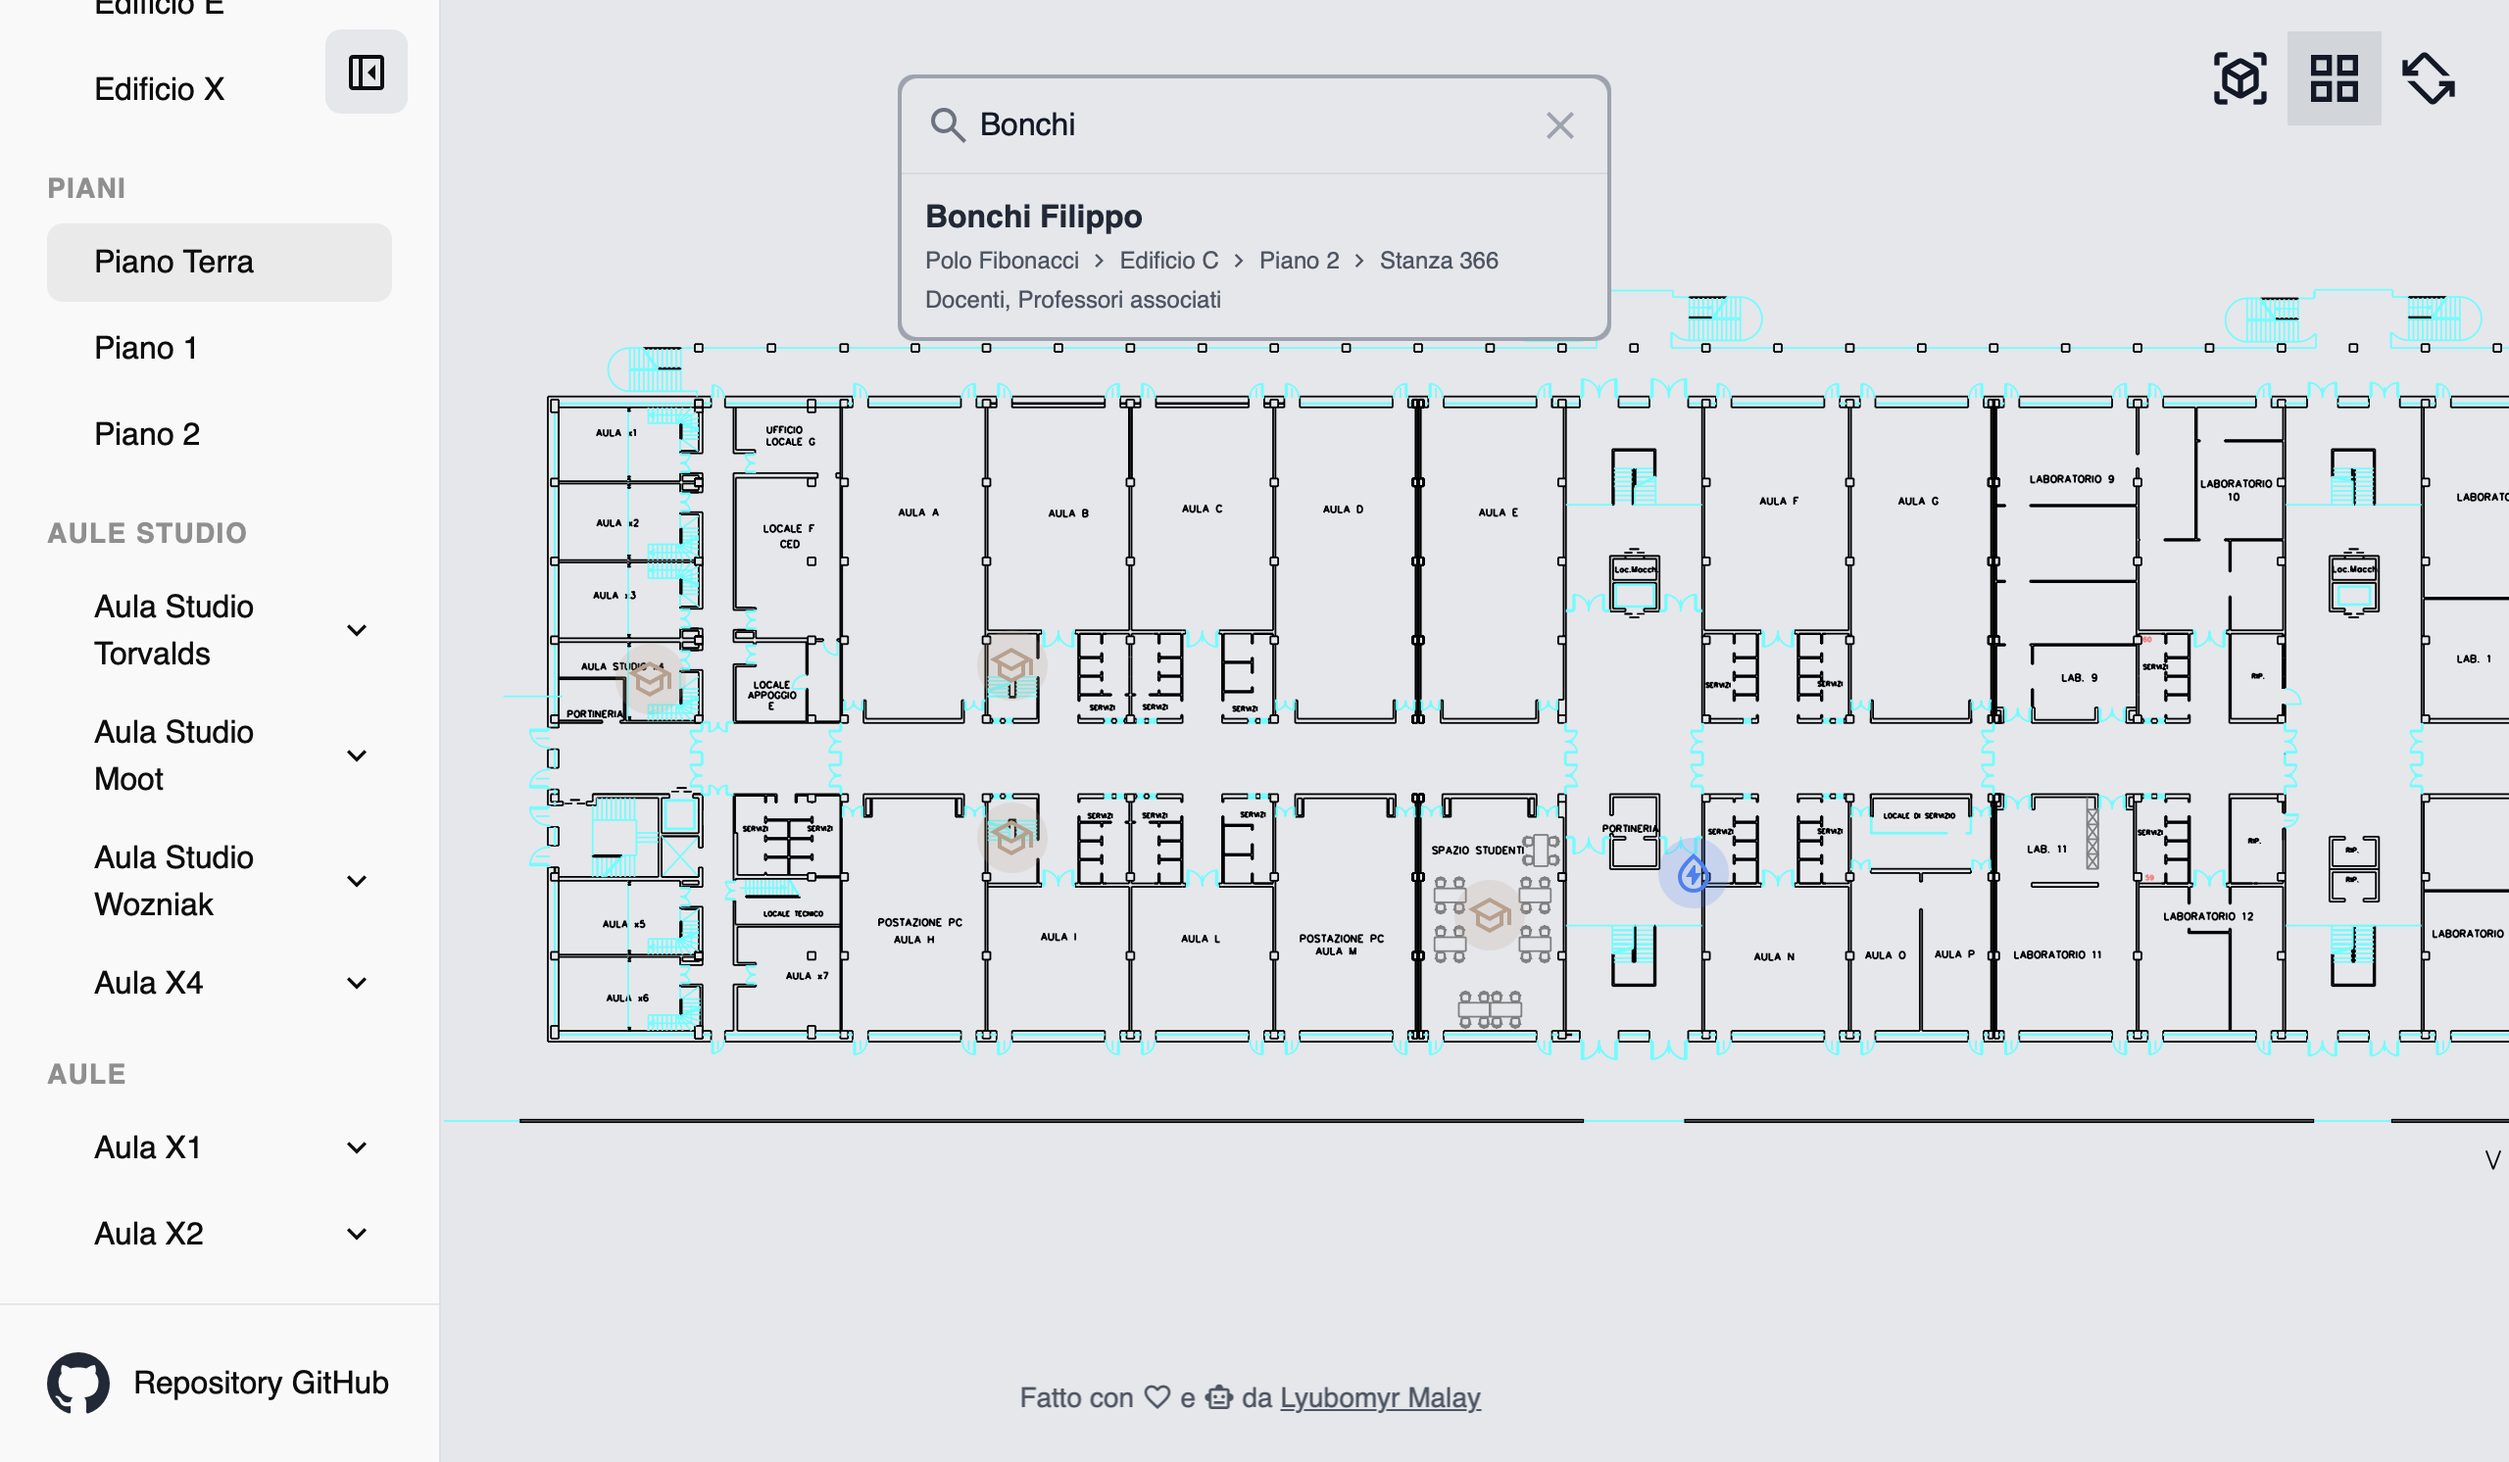
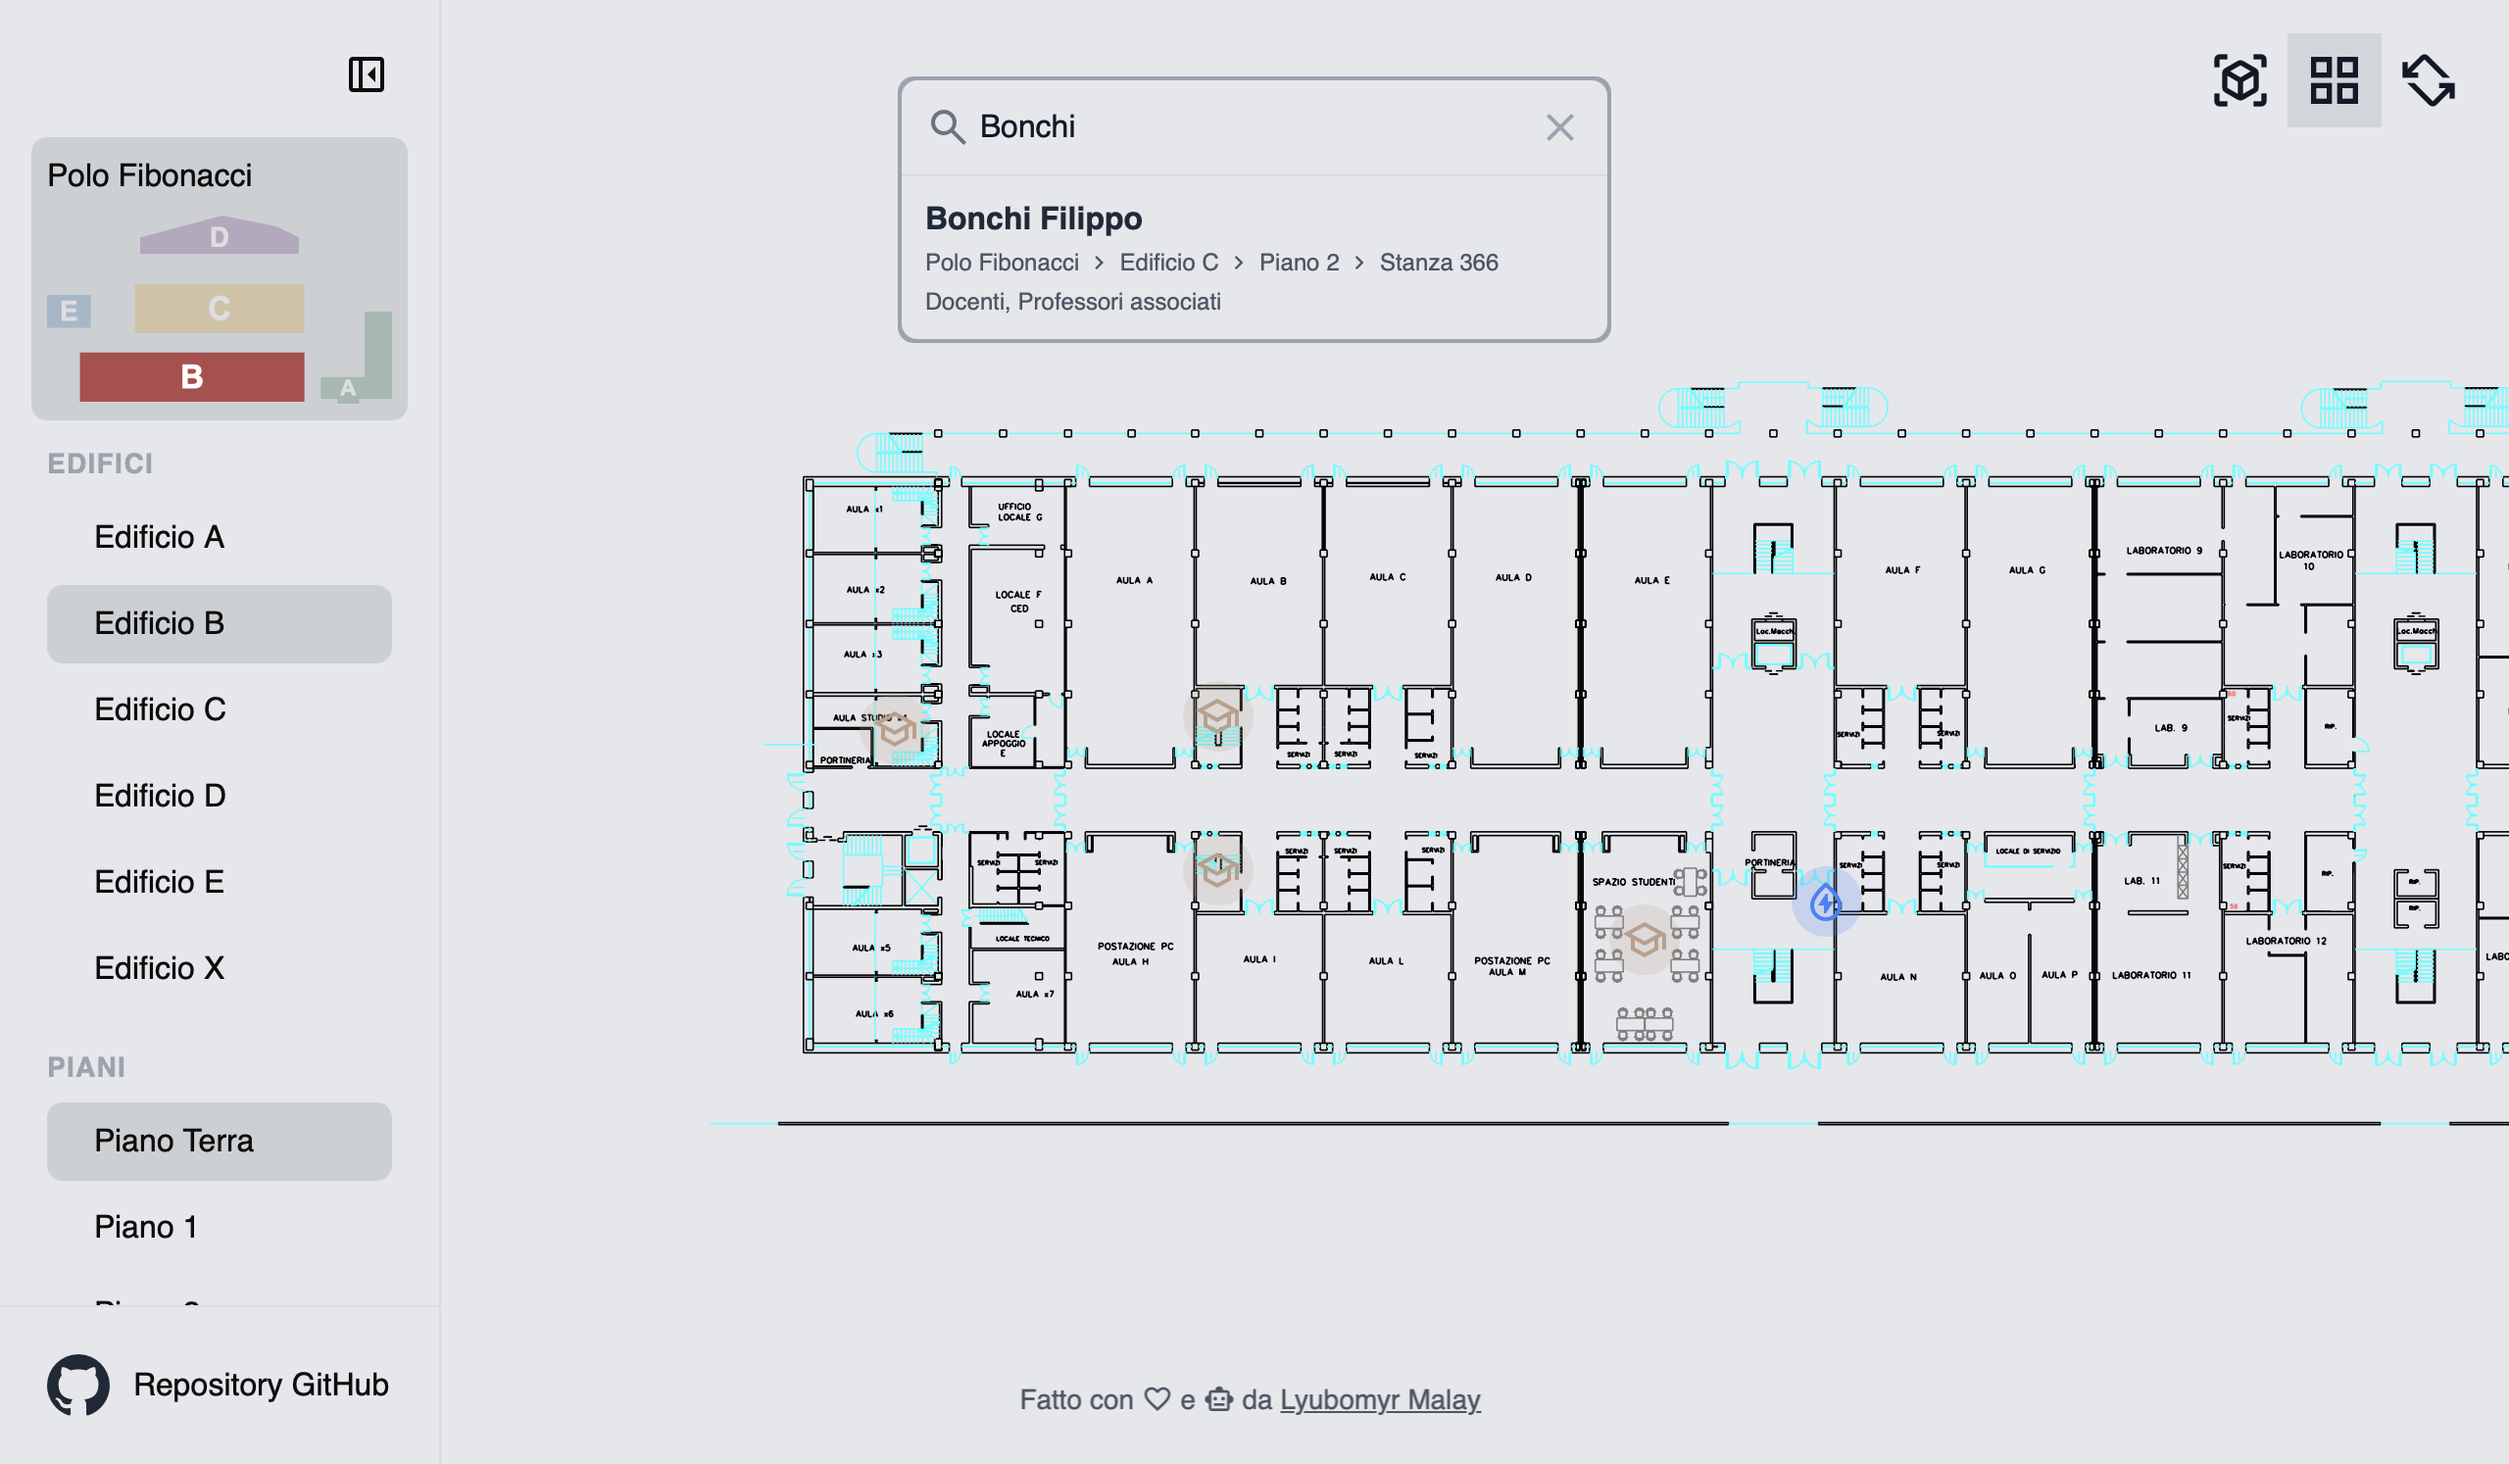
❄

diff --git a/index.html b/index.html
@@ -935,7 +935,7 @@ RMMMMRMMMMME        EMMMMMMMMMMMMM!
             width: 290px;
             min-width: 290px;
             max-width: 290px;
-            background-color: #f9f9f9;
+            background-color: var(--bg-main);
             border-right: 1px solid var(--border-divider);
             color: #0d0d0d;
         }
@@ -968,8 +968,8 @@ RMMMMRMMMMME        EMMMMMMMMMMMMM!
         /* Stile per l'hover degli elementi */
         @media (hover: hover) {
             .nav-item:hover {
-                background-color: #eaeaea;
-                /* sidebar hover */
+                background-color: var(--bg-surface-hover);
+                /* Aligned with normal buttons */
             }
 
             .hover-effect:hover {
@@ -985,6 +985,12 @@ RMMMMRMMMMME        EMMMMMMMMMMMMM!
             .hover-text-effect:hover {
                 color: var(--color-gray-800);
                 /* gray-800 */
+            }
+
+            /* Hover effect for library and department buttons (not in high-contrast mode) */
+            body:not(.high-contrast) a.bg-gray-300:hover,
+            body:not(.high-contrast) button.bg-gray-300:hover {
+                background-color: var(--color-gray-350) !important;
             }
         }
 
@@ -1073,6 +1079,7 @@ RMMMMRMMMMME        EMMMMMMMMMMMMM!
             --color-gray-50: #f8fafc;
             --color-gray-200: #e5e7eb;
             --color-gray-300: #d1d5db;
+            --color-gray-350: #b7bcc5; /* Custom gray for hover states */
             --color-gray-400: #9ca3af;
             --color-gray-500: #6b7280;
             --color-gray-600: #4b5563;
@@ -1292,7 +1299,7 @@ RMMMMRMMMMME        EMMMMMMMMMMMMM!
 
 
         .nav-item.selected {
-            background-color: var(--overlay-nav-selected);
+            background-color: var(--overlay-selected);
         }
 
         .nav-item {
@@ -1962,6 +1969,12 @@ RMMMMRMMMMME        EMMMMMMMMMMMMM!
             border: 2px solid var(--color-black) !important;
         }
 
+        /* No border for library/department buttons */
+        .high-contrast a.bg-gray-300,
+        .high-contrast button.bg-gray-300 {
+            border: none !important;
+        }
+
         .high-contrast .button-group {
             border: 2px solid var(--color-black) !important;
         }
@@ -2099,6 +2112,19 @@ RMMMMRMMMMME        EMMMMMMMMMMMMM!
             body:not(.keyboard-navigation-active) .high-contrast.high-contrast .search-result-item:hover:not(.selected) label.relative.inline-flex input:checked+div {
                 background-color: var(--color-white) !important;
                 box-shadow: inset 0 0 0 1px var(--color-black) !important;
+            }
+
+            /* Hover effects for library/department buttons in high contrast mode */
+            .high-contrast a.bg-gray-300:hover,
+            .high-contrast button.bg-gray-300:hover {
+                background-color: var(--color-black) !important;
+                color: var(--color-white) !important;
+            }
+
+            .high-contrast a.bg-gray-300:hover *,
+            .high-contrast button.bg-gray-300:hover * {
+                background-color: var(--color-transparent) !important;
+                color: var(--color-white) !important;
             }
 
             body:not(.keyboard-navigation-active).high-contrast .search-result-item:hover:not(.selected) label.relative.inline-flex>div::after,
@@ -2583,7 +2609,7 @@ RMMMMRMMMMME        EMMMMMMMMMMMMM!
             <style>
                 /* Sidebar specific overrides */
                 #sidebar .text-gray-500 {
-                    color: #8f8f8f !important;
+                    color: var(--text-muted) !important;
                 }
 
                 #sidebar .text-gray-900 {
@@ -6192,10 +6218,14 @@ RMMMMRMMMMME        EMMMMMMMMMMMMM!
                         group.style.opacity = '1';
                         // Add transition for smooth effect
                         group.style.transition = 'opacity 0.3s ease';
+                        // Add class for high contrast styling
+                        group.classList.add('mini-map-building-selected');
                     } else {
                         // Not selected -> dimmed
                         group.style.opacity = '0.3';
                         group.style.transition = 'opacity 0.3s ease';
+                        // Remove class for high contrast styling
+                        group.classList.remove('mini-map-building-selected');
                     }
                 });
             }
@@ -6475,7 +6505,7 @@ RMMMMRMMMMME        EMMMMMMMMMMMMM!
                             const mapBtn = document.createElement('a');
                             mapBtn.href = dept['link-mappa'];
                             mapBtn.target = '_blank';
-                            mapBtn.className = 'flex items-center space-x-2 p-2 bg-gray-200 rounded-lg hover:bg-gray-300 transition-colors';
+                            mapBtn.className = 'flex items-center space-x-2 p-2 bg-gray-300 rounded-lg hover:bg-[#b7bcc5] transition-colors';
                             mapBtn.innerHTML = `<span class="material-symbols-outlined" style="font-size: 16px;">map</span><span>${t('map_button')}</span>`;
                             buttonsContainer.appendChild(mapBtn);
                         }
@@ -6484,7 +6514,7 @@ RMMMMRMMMMME        EMMMMMMMMMMMMM!
                             const deptBtn = document.createElement('a');
                             deptBtn.href = dept['link-dipartimento'];
                             deptBtn.target = '_blank';
-                            deptBtn.className = 'flex items-center space-x-2 p-2 bg-gray-200 rounded-lg hover:bg-gray-300 transition-colors';
+                            deptBtn.className = 'flex items-center space-x-2 p-2 bg-gray-300 rounded-lg hover:bg-[#b7bcc5] transition-colors';
                             deptBtn.innerHTML = `<span class="material-symbols-outlined" style="font-size: 16px;">language</span><span>${t('website_button')}</span>`;
                             buttonsContainer.appendChild(deptBtn);
                         }
@@ -6540,12 +6570,12 @@ RMMMMRMMMMME        EMMMMMMMMMMMMM!
                             linkBtn.href = lib.link_sito;
                             linkBtn.target = '_blank';
                             // Stile identico a quello dei dipartimenti
-                            linkBtn.className = 'flex items-center space-x-2 p-2 bg-gray-200 rounded-lg hover:bg-gray-300 transition-colors inline-flex text-gray-900';
+                            linkBtn.className = 'flex items-center space-x-2 p-2 bg-gray-300 rounded-lg hover:bg-[#b7bcc5] transition-colors inline-flex text-gray-900';
                             linkBtn.innerHTML = `<span class="material-symbols-outlined" style="font-size: 16px;">language</span><span>${t('website_button')}</span>`;
 
                             // Bottone Orari
                             const hoursBtn = document.createElement('button');
-                            hoursBtn.className = 'flex items-center space-x-2 p-2 bg-gray-200 rounded-lg hover:bg-gray-300 transition-colors inline-flex text-gray-900';
+                            hoursBtn.className = 'flex items-center space-x-2 p-2 bg-gray-300 rounded-lg hover:bg-[#b7bcc5] transition-colors inline-flex text-gray-900';
                             hoursBtn.innerHTML = `<span class="material-symbols-outlined pointer-events-none" style="font-size: 16px;">schedule</span><span class="pointer-events-none">${t('hours_button')}</span>`;
 
                             // Add data attribute for delegation

diff --git a/README.md b/README.md
@@ -50,7 +50,7 @@
   - [Altre biblioteche disponibili](#altre-biblioteche-disponibili)
 - [API Aule](#api-aule)
 - [Telegram Bot](#telegram-bot)
-- [Data Sources](#data-source)
+- [Data Sources](#data-sources)
 - [Problemi noti](#problemi-noti)
   
 
